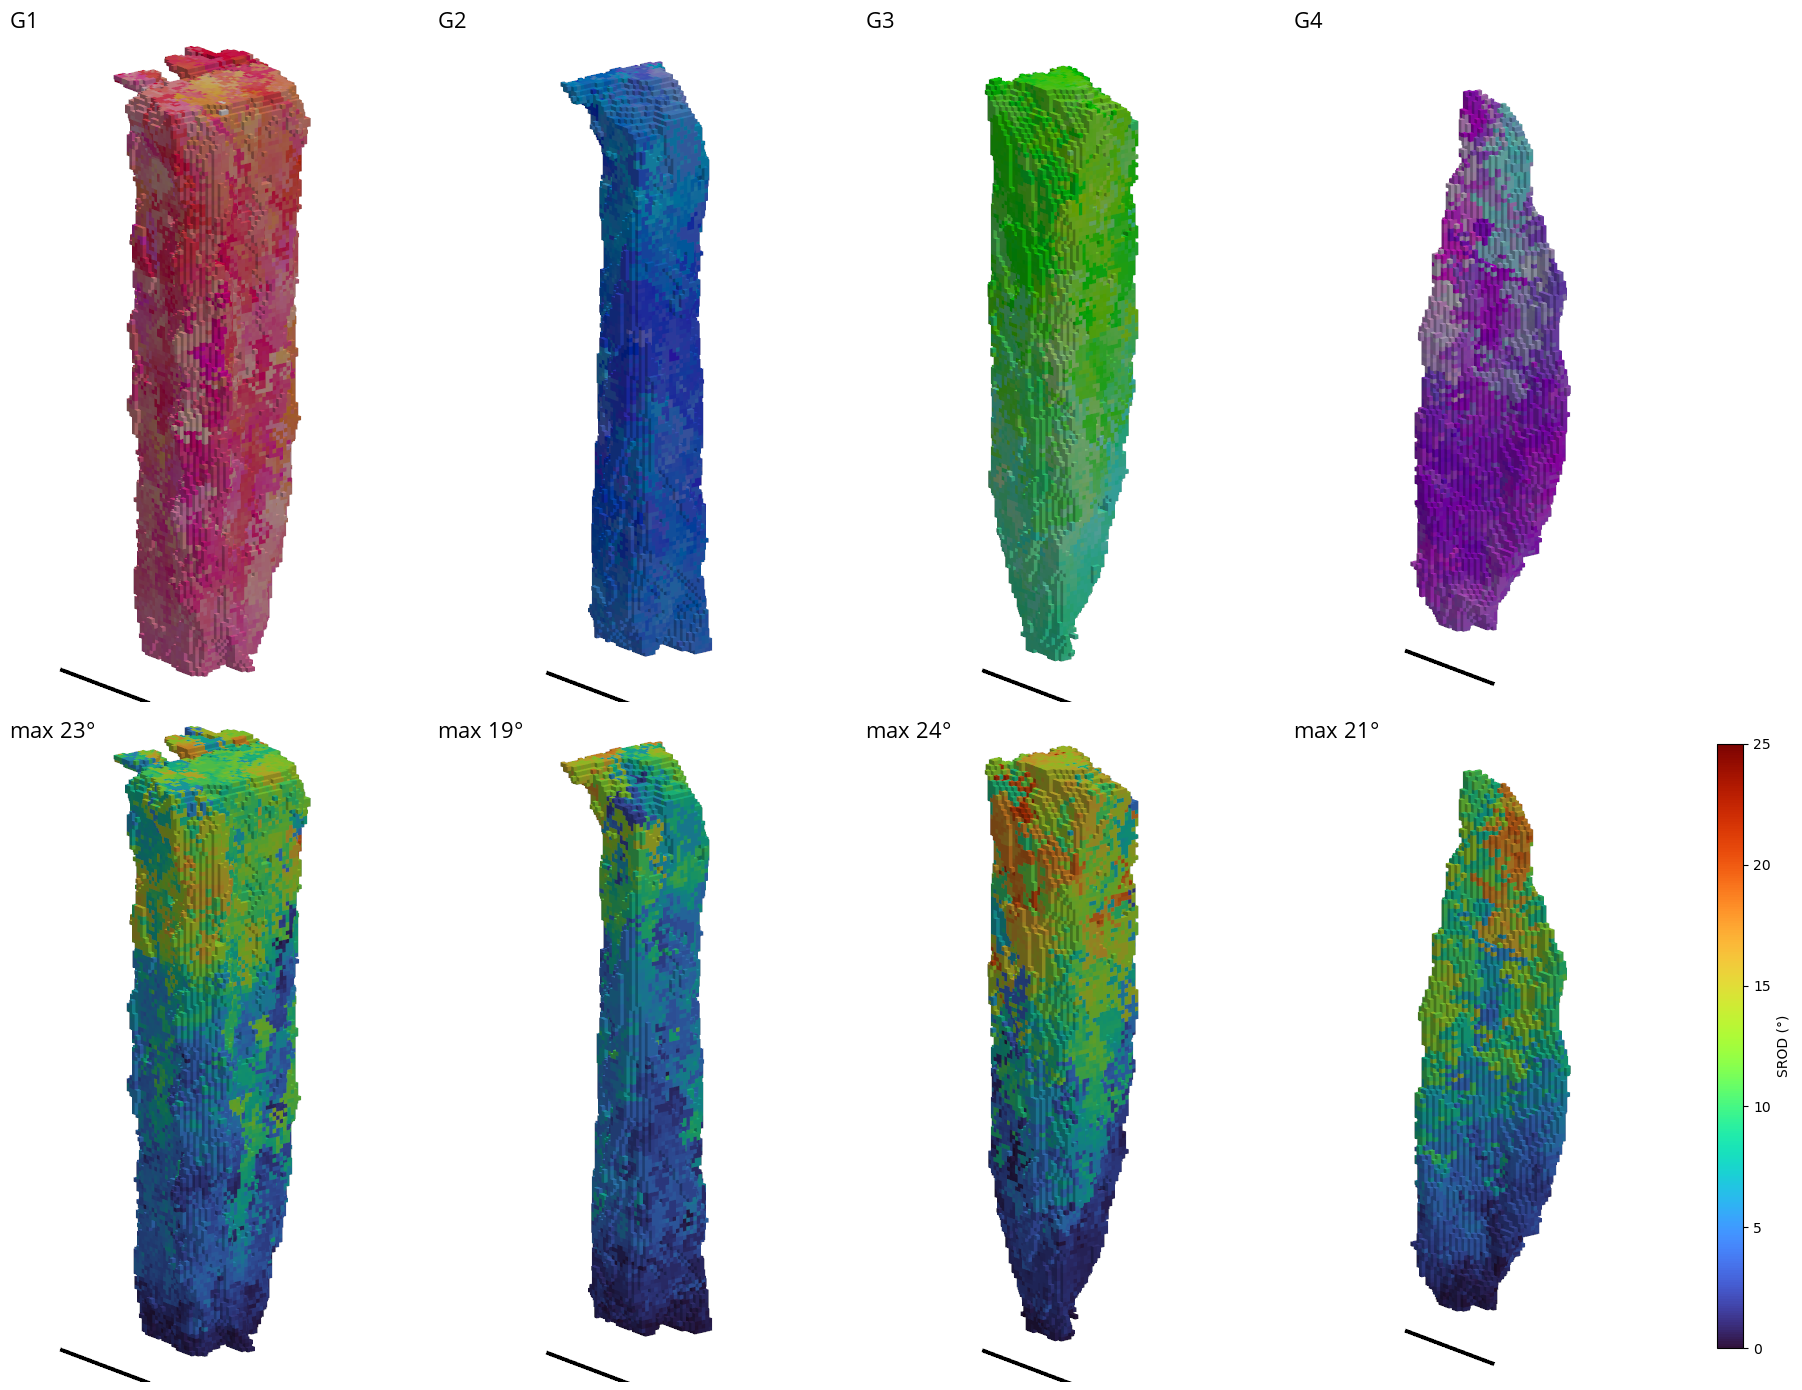
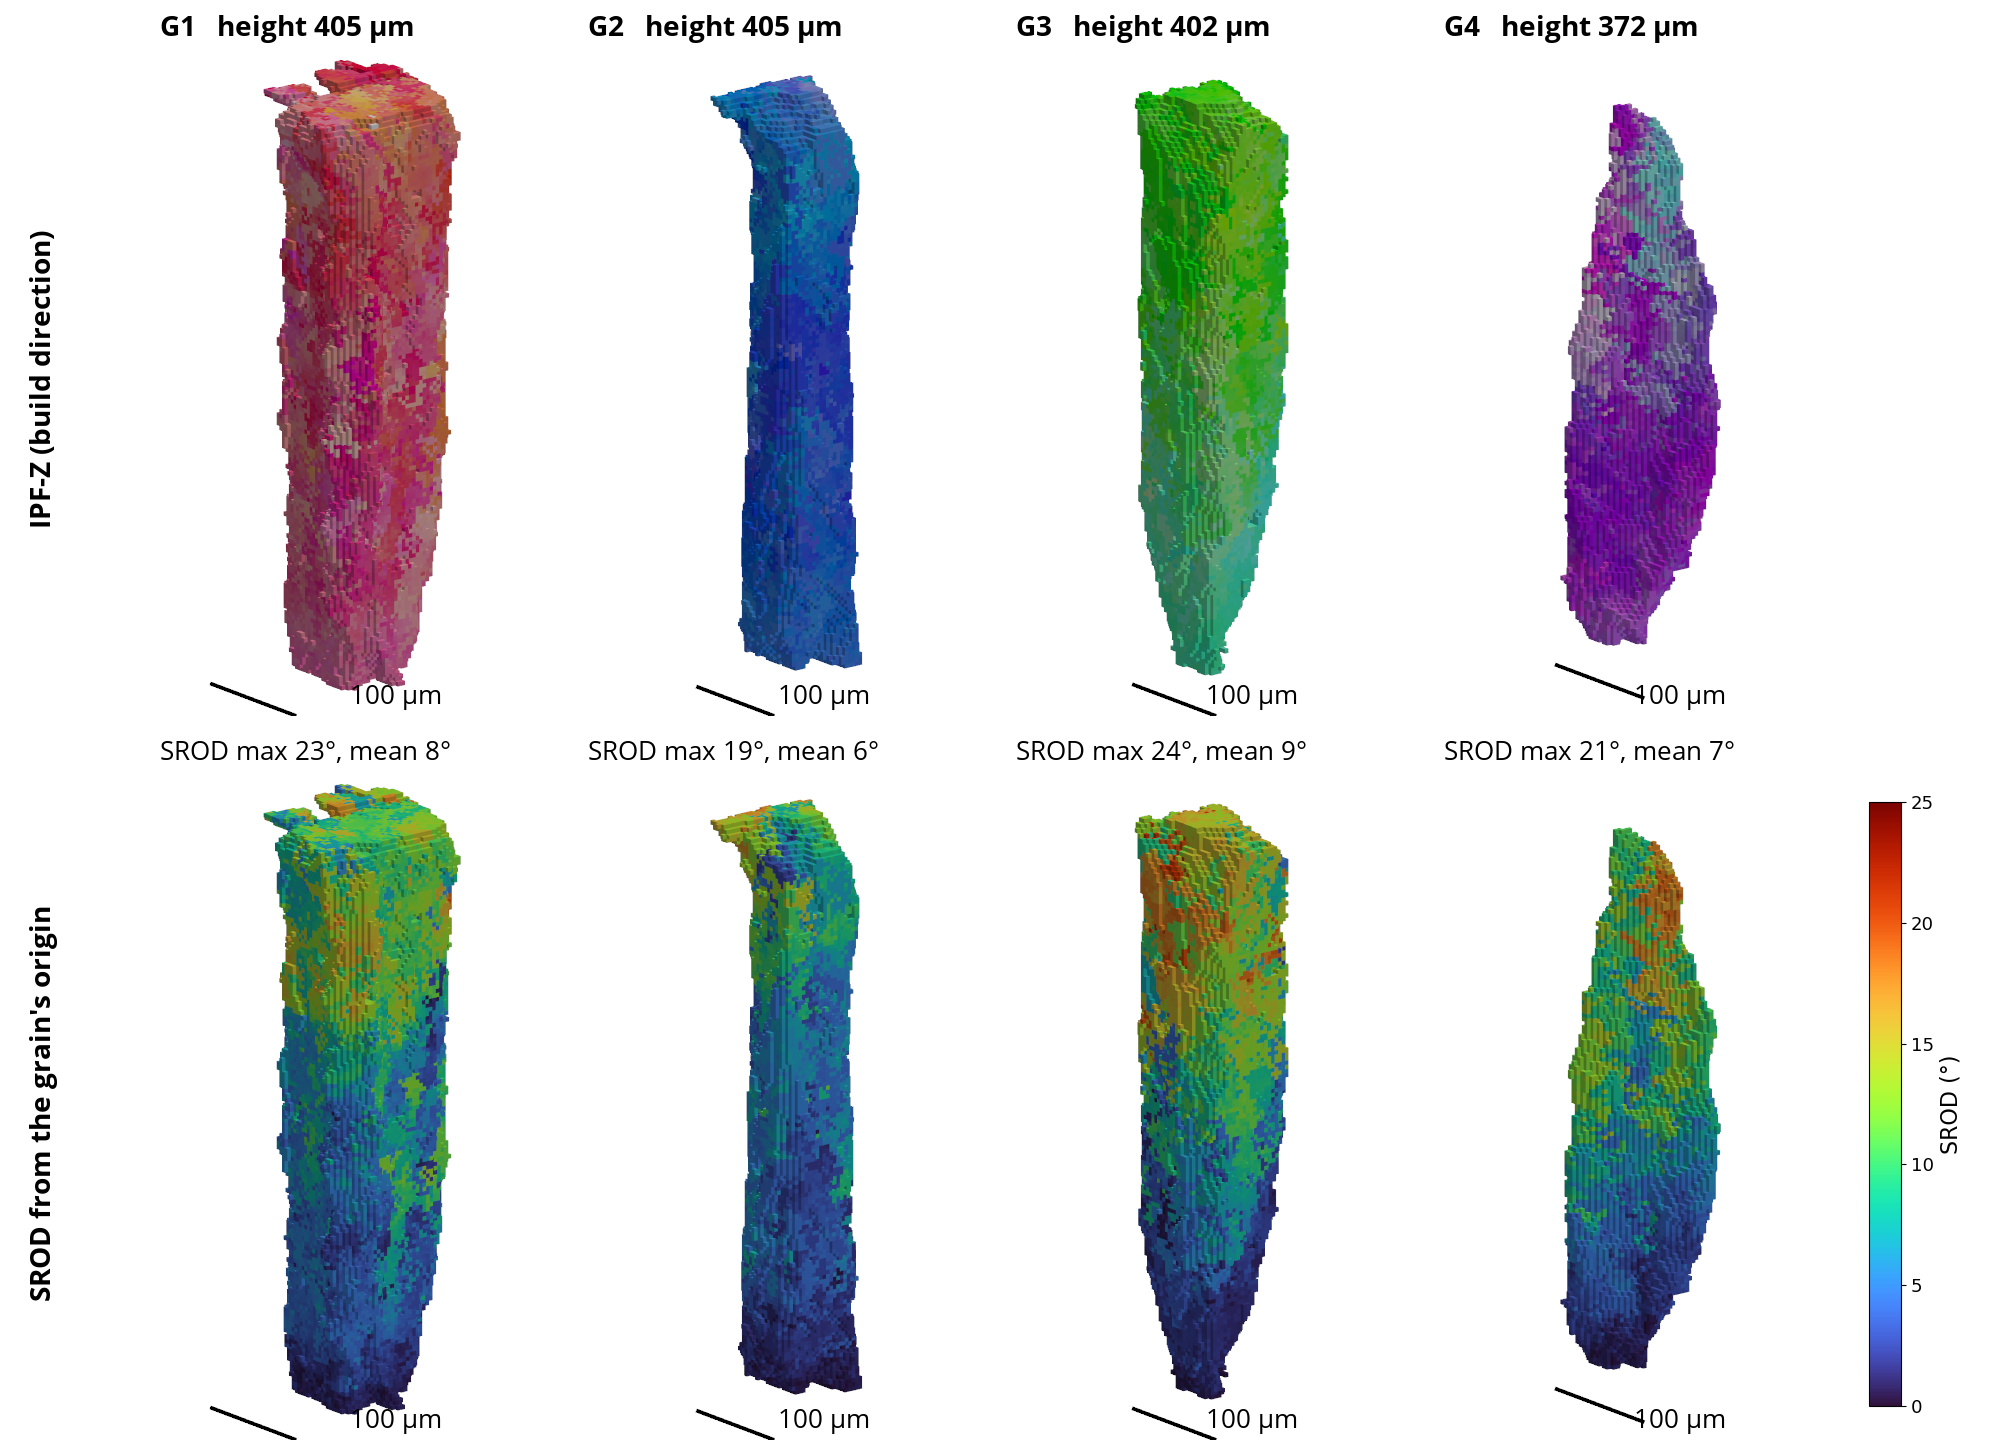
slides: per-grain table removed, its numbers folded into the bullets of the paths and 3-D slides; 3-D grain render relabelled (row labels, grain height, SROD max/mean, 100 um bar labels, larger colour bar)
Claude-Session: https://claude.ai/code/session_013BWm6NqRzuRuzuR1Dnx5hZ

diff --git a/docs/grain_3d_render.py b/docs/grain_3d_render.py
@@ -56,16 +56,24 @@ for k, gid in enumerate(a.grains):
     tiles_ipf.append(render(sub, colors=rgb[srt])); tiles_srod.append(render(sub, scalars=srod[srt], clim=(0, a.srod_max)))
     h = (zc.max() - zc.min() + 1) * dxu; info.append((gid, h, srod.max(), srod.mean()))
     print(f'G{k+1} id {gid}: height {h:.0f} um, {m.sum()} voxels, SROD max {srod.max():.1f} mean {srod.mean():.1f} deg', flush=True)
-# composite: row 1 IPF, row 2 SROD, colour bar at right
-W, H = tiles_ipf[0].shape[1], tiles_ipf[0].shape[0]; n = len(tiles_ipf); pad = 8; barw = 90
-out = Image.new('RGB', (n * (W + pad) + barw, 2 * (H + pad) + 30), 'white'); d = ImageDraw.Draw(out)
-try: font = ImageFont.truetype('/usr/share/fonts/open-sans/OpenSans-Regular.ttf', 22)
-except Exception: font = ImageFont.load_default()
+# composite: row 1 IPF-Z, row 2 SROD, row labels at left, grain label + height above each column, 100 um under the bar, colour bar at right
+W, H = tiles_ipf[0].shape[1], tiles_ipf[0].shape[0]; n = len(tiles_ipf); pad = 8; barw = 130; lab = 150; top = 44
+out = Image.new('RGB', (lab + n * (W + pad) + barw, 2 * (H + top) + pad), 'white'); d = ImageDraw.Draw(out)
+try: font = ImageFont.truetype('/usr/share/fonts/open-sans/OpenSans-Regular.ttf', 26); big = ImageFont.truetype('/usr/share/fonts/open-sans/OpenSans-Bold.ttf', 28)
+except Exception: font = big = ImageFont.load_default()
+def vlabel(text, yc):
+    bb = d.textbbox((0, 0), text, font=big); im = Image.new('RGB', (bb[2] + 4, bb[3] + 4), 'white'); ImageDraw.Draw(im).text((2, 2), text, fill='black', font=big)
+    im = im.rotate(90, expand=True); out.paste(im, (18, yc - im.height // 2))
+vlabel('IPF-Z (build direction)', top + H // 2); vlabel("SROD from the grain's origin", 2 * top + H + pad + H // 2)
 for k, (ti, ts) in enumerate(zip(tiles_ipf, tiles_srod)):
-    x = k * (W + pad); out.paste(Image.fromarray(ti), (x, 30)); out.paste(Image.fromarray(ts), (x, H + pad + 30))
-    d.text((x + 10, 4), f'G{k+1}', fill='black', font=font); d.text((x + 10, H + pad + 34), f'max {info[k][2]:.0f}°', fill='black', font=font)
+    x = lab + k * (W + pad); y1, y2 = top, 2 * top + H + pad
+    out.paste(Image.fromarray(ti), (x, y1)); out.paste(Image.fromarray(ts), (x, y2))
+    d.text((x + 10, 6), f'G{k+1}   height {info[k][1]:.0f} µm', fill='black', font=big)
+    d.text((x + 10, y2 - top + 8), f'SROD max {info[k][2]:.0f}°, mean {info[k][3]:.0f}°', fill='black', font=font)
+    for y in (y1, y2): d.text((x + 200, y + H - 40), '100 µm', fill='black', font=font)   # the bar is rendered bottom-left of each tile
 import matplotlib; matplotlib.use('Agg'); import matplotlib.pyplot as plt
-fig, ax = plt.subplots(figsize=(barw/100, H/100)); fig.subplots_adjust(left=0.05, right=0.35, top=0.95, bottom=0.05)
-plt.colorbar(plt.cm.ScalarMappable(norm=plt.Normalize(0, a.srod_max), cmap='turbo'), cax=ax, label='SROD (°)'); fig.savefig('/tmp/_cbar.png', dpi=100); plt.close(fig)
-cb = Image.open('/tmp/_cbar.png').convert('RGB'); out.paste(cb, (n * (W + pad), H + pad + 30))
+fig, ax = plt.subplots(figsize=(barw/100, H/100)); fig.subplots_adjust(left=0.05, right=0.3, top=0.95, bottom=0.05)
+cb = plt.colorbar(plt.cm.ScalarMappable(norm=plt.Normalize(0, a.srod_max), cmap='turbo'), cax=ax); cb.set_label('SROD (°)', fontsize=16); cb.ax.tick_params(labelsize=13)
+fig.savefig('/tmp/_cbar.png', dpi=100); plt.close(fig)
+cb = Image.open('/tmp/_cbar.png').convert('RGB'); out.paste(cb, (lab + n * (W + pad), 2 * top + H + pad))
 out.save(a.out); print('saved', a.out, out.size)
